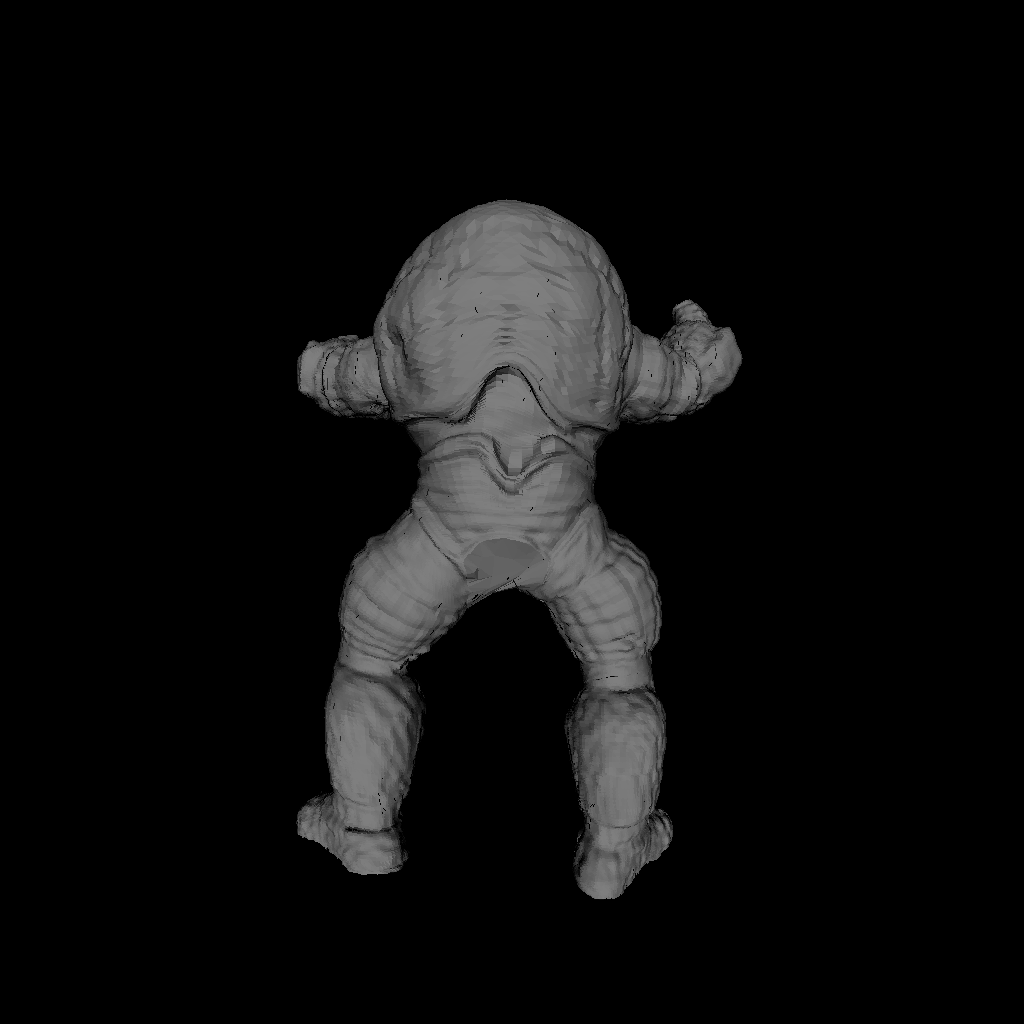
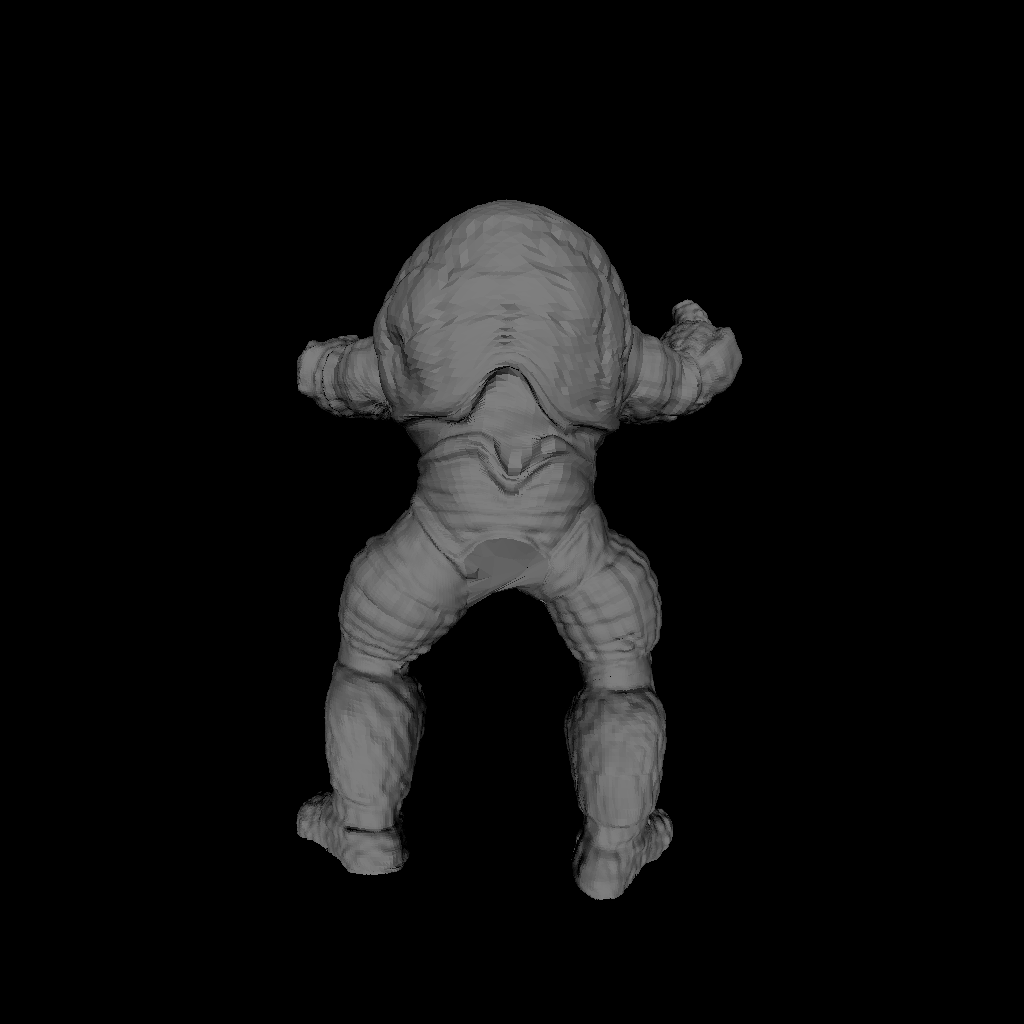
perf: 经典扫描线同样改用平面方程求值；并按屏幕面积跳过退化三角形
一、经典扫描线（scanlineZBuffer）与共享内核对齐
活动边表补上「左边缘进入扫描线时的参考点 (xRef, yRef, zRef)」，渲染时：
  · 深度由平面方程 z = zRef + (yRef - y)*dzy + (x - xRef)*dzx 直接求值，不再逐像素/逐行累加；
  · 求值位置夹回该扫描行的真实跨度 [xLeft, xRight] 之内。
改动前实测越界样本 567266 个（robot）、最大越界幅度 36.58，而整个视锥才 [-1, 1]。

二、按屏幕面积跳过退化三角形（两条路径都加）
屏幕面积 = |c| / 2，低于 0.01 平方像素直接跳过。
原来只用 |c| < 1e-5 判退化，只管住了面积恰好为 0 的情形；实测机器人模型里存在三个顶点
只差 0.001 像素的细条，|c| 约 0.002 照样通过阈值，但过这三点的平面已经是纯噪声：
它三个顶点的深度只相差 0.0025，解出来的 dzx 却是 -2.12/像素，比自身深度跨度大三个
数量级。这种三角形的片元深度没有意义，而它本来也覆盖不到一个像素。

为什么必须两个一起做：只把深度改成平面求值、先不跳过退化三角形的话，那些细条原本靠
「逐行累加漂移出来的乱值」输掉深度测试、碰巧不显示，改正之后它们的深度变得合理，反而
稳定胜出、把噪声颜色刷到画面上——机器人模型上出现了大片横向条纹（36000+ 像素异常）。
补上按面积跳过之后条纹消失。

实测（MSVC /O2，1024x1024，自带 6 模型）：

  越界样本最大幅度（经典模式）  dolphins 0.126 -> 1.3e-05
                                african_head 1.485 -> 1.1e-04
                                teapot 3.704 -> 2.5e-04
                                bunny 14.03 -> 6.4e-05
                                robot 36.58 -> 1.2e-03
                                armadillo 14.27 -> 7.5e-05

  经典扫描线 vs 特化扫描线（同一批三角形的两种扫描线实现，理应几乎一致）：
                                合计 164452 -> 47398  (-71%)

  与朴素 z-Buffer（不共享内核，重心插值，深度天然是顶点深度的凸组合）的差异：
                                合计 1129541 -> 1081511  (-4.3%)，30 个组合全部改善或持平

代价：经典扫描线 6 个模型合计 87.78 -> 88.09 ms（+0.4%，5 次取最小值），在噪声量级。

results/ 下 36 张图已同步重新生成；verify.sh 36/36 逐字节一致；
越界防护测试（相机 z=0.9、几何远超视口）仍然 ALL ALGORITHMS SURVIVED；MSBuild Release|x64 通过。

Changed region(s): [[0.625, 0.7812, 0.6562, 0.8125], [0.4688, 0.4375, 0.5, 0.4688]]

diff --git a/src/scanlineZBuffer.cpp b/src/scanlineZBuffer.cpp
@@ -96,7 +96,7 @@ void ScanlineZBuffer::rasterizeScene(Model& model, Scene& scene) {
 				//当该边对应的三角形是首次出现，则统一将该边视为左侧边，同时将dyRight赋值为-1以标识该活化边对只有1条边
 				slot = m_aetSize++;
 				m_triSlot[id] = slot;
-				m_aet[slot] = { classifyEdge.x, 0.0f, classifyEdge.dx, 0.0f, classifyEdge.dy, -1, classifyEdge.z, m_triangles[id].dzx, m_triangles[id].dzy, id};
+				m_aet[slot] = { classifyEdge.x, 0.0f, classifyEdge.dx, 0.0f, classifyEdge.dy, -1, classifyEdge.x, classifyEdge.z, i, m_triangles[id].dzx, m_triangles[id].dzy, id};
 			} else {
 				//当该边对应的三角形不是首次出现，则进行以下判断
 				//dyRight != -1 => 该边对有2条边，此时需判断是否有1条边扫描完毕，如果有，则将该边填充至扫描完毕的那条边
@@ -123,7 +123,9 @@ void ScanlineZBuffer::rasterizeScene(Model& model, Scene& scene) {
 						activeEdge.xLeft = classifyEdge.x;
 						activeEdge.dxLeft = classifyEdge.dx;
 						activeEdge.dyLeft = classifyEdge.dy;
-						activeEdge.z = classifyEdge.z;
+						activeEdge.xRef = classifyEdge.x;
+						activeEdge.zRef = classifyEdge.z;
+						activeEdge.yRef = i;
 					} else {
 						//新边在右
 						activeEdge.xRight = classifyEdge.x;
@@ -138,7 +140,9 @@ void ScanlineZBuffer::rasterizeScene(Model& model, Scene& scene) {
 					activeEdge.xLeft = classifyEdge.x;
 					activeEdge.dxLeft = classifyEdge.dx;
 					activeEdge.dyLeft = classifyEdge.dy;
-					activeEdge.z = classifyEdge.z;
+					activeEdge.xRef = classifyEdge.x;
+					activeEdge.zRef = classifyEdge.z;
+					activeEdge.yRef = i;
 				}
 			}
 		}
@@ -148,20 +152,25 @@ void ScanlineZBuffer::rasterizeScene(Model& model, Scene& scene) {
 			int id = edge.id;
 			const glm::vec3& color = m_triangles[id].color;
 			//当识别到该边对只有1条边，表示该边对应的三角形只跨越1条扫描线，此时直接从左向右扫描三角形
-			int xLeft = static_cast<int>(edge.xLeft), xRight = static_cast<int>(edge.dyRight == -1 ? (edge.xLeft + edge.dxLeft) : edge.xRight);
-			float z = edge.z, depth;
+			const float spanLeft = edge.xLeft;
+			const float spanRight = (edge.dyRight == -1) ? (edge.xLeft + edge.dxLeft) : edge.xRight;
+			int xLeft = static_cast<int>(spanLeft), xRight = static_cast<int>(spanRight);
 			//把扫描线裁剪到渲染窗口内，避免越界写入 m_zBuffer / m_image
 			if (xLeft < 0) {
-				z += edge.dzx * (0 - xLeft);
 				xLeft = 0;
 			}
 			if (xRight >= m_width) {
 				xRight = m_width - 1;
 			}
+			//本行的深度由平面方程直接求值（不再逐像素累加）；求值位置还要夹回该扫描行的
+			//真实跨度之内：像素范围是向零截断得到的，最左那个像素的整数坐标可能落在跨度
+			//之外最多 1 像素，而窄长三角形的 dzx 可以很大，外推出去深度会被甩出视锥
+			//（实测最大越界幅度到过 36.6，而整个视锥才 [-1, 1]）
+			const float rowZ = edge.zRef + (edge.yRef - i) * edge.dzy;
 			for (int j = xLeft; j <= xRight; j++) {
+				const float xc = (j < spanLeft) ? spanLeft : ((static_cast<float>(j) > spanRight) ? spanRight : static_cast<float>(j));
 				//深度取 -z（越远越大），与光栅化内核保持一致
-				depth = -z;
-				z += edge.dzx;
+				const float depth = -(rowZ + (xc - edge.xRef) * edge.dzx);
 				int index = m_width * i + j;
 				if (m_zBuffer[index] < depth) {
 					continue;
@@ -181,7 +190,6 @@ void ScanlineZBuffer::rasterizeScene(Model& model, Scene& scene) {
 			}
 			edge.xLeft += edge.dxLeft;
 			edge.xRight += edge.dxRight;
-			edge.z += edge.dzx * edge.dxLeft + edge.dzy;
 		}
 		//稳定压缩：保持边对相对顺序不变，使同深度像素的覆盖顺序与原实现一致
 		int alive = 0;
@@ -259,6 +267,10 @@ void ScanlineZBuffer::generateTables(Model& model, Scene& scene) {
 			dzx = (face[maxXIndex].z - face[minXIndex].z) / (maxX - minX);
 			dzy = (face[maxYIndex].z - face[minYIndex].z) / (maxY - minY);
 		}
+		//屏幕面积过小的退化三角形直接跳过，理由见 triangleRasterizer.hpp 的说明
+		if (glm::abs(c) < 2.0f * 0.01f) {
+			continue;
+		}
 		m_triangles[i] = { dzx, dzy, diffuseColor * diffuseIntensity };
 		//当三角形三个顶点y值相同时，经典扫描线算法会不渲染这个三角形，此时需要特殊处理
 		//将该三角形跨越的x值作为dx以在渲染时特殊处理
@@ -290,22 +302,23 @@ void ScanlineZBuffer::generateTables(Model& model, Scene& scene) {
 			if (faceDiff[j] < 0) {
 				std::swap(curJ, nextJ);
 			}
-			float x = face[curJ].x, z = face[curJ].z + (static_cast<int>(x) - x) * dzx;
+			float x = face[curJ].x;
 			int ymax = static_cast<int>(face[curJ].y), ymin = static_cast<int>(face[nextJ].y);
 			if ((face[curJ].y - face[nextJ].y) * (face[curJ].y - face[preJ].y) < -EPSILON) {
 				ymax--;
 				x += dx;
-				z += dx * dzx + dzy;
 			}
-			//把边裁剪到渲染窗口内：起始扫描线在窗口上方时，把 x、z 的插值推进过去
+			//把边裁剪到渲染窗口内：起始扫描线在窗口上方时，把 x 的插值推进过去
 			if (ymax >= m_height) {
 			    int skip = ymax - (m_height - 1);
 			    x += dx * skip;
-			    z += (dx * dzx + dzy) * skip;
 			    ymax = m_height - 1;
 			}
 			if (ymax >= 0) {
-			    m_classifyEdgeTables[ymax].push_back({ x, dx, ymax - ymin + 1, z,i });
+			    //记录该边进入扫描线时的参考点 (x, ymax)，以及深度平面在该点的取值。
+			    //渲染时用平面方程直接求值，不再沿扫描线逐行累加
+			    const float zRef = face[curJ].z + (face[curJ].y - ymax) * dzy + (x - face[curJ].x) * dzx;
+			    m_classifyEdgeTables[ymax].push_back({ x, dx, ymax - ymin + 1, zRef, i });
 			}
 		}
 	}

diff --git a/src/triangleRasterizer.hpp b/src/triangleRasterizer.hpp
@@ -33,6 +33,8 @@ inline void rasterizeTriangleScanline(glm::vec3* face, glm::vec3 color,
 {
     //与原各算法中的 EPSILON 宏取值一致
     constexpr double kEpsilon = 1e-5;
+    //低于这个屏幕面积（单位：平方像素）的三角形视为已退化
+    constexpr float kMinScreenArea = 0.01f;
 
     //深度一律取 -z，而不是 |z|。
     //本工程的投影（m_near/m_far 都取负值、配合行向量约定）把近平面映到
@@ -62,6 +64,12 @@ inline void rasterizeTriangleScanline(glm::vec3* face, glm::vec3 color,
     float b = (face[1].z - face[0].z) * (face[2].x - face[0].x) - (face[1].x - face[0].x) * (face[2].z - face[0].z);
     float c = (face[1].x - face[0].x) * faceDiff[2] + faceDiff[0] * (face[2].x - face[0].x);
     float dzx = -a / c, dzy = b / c;
+    //屏幕空间面积 = |c| / 2。三角形退化成极窄长条、甚至一条线时，过这三点的平面是病态的
+    //（|dzx| 可以大到几十，而三角形自身的深度跨度只有千分之几），它给出的片元深度没有意义；
+    //这种三角形本来也覆盖不到一个像素，直接跳过。
+    if (glm::abs(c) < 2.0f * kMinScreenArea) {
+        return;
+    }
     if (glm::abs(c) < kEpsilon) {
         //与经典扫描线算法建表的思路相同，当三角形是一条线时执行以下操作
         int minXIndex = 0, maxXIndex = 0;

diff --git a/src/scanlineZBuffer.hpp b/src/scanlineZBuffer.hpp
@@ -72,7 +72,16 @@ struct ActiveEdgeTable {
 	float xLeft, xRight;
 	float dxLeft, dxRight;
 	int dyLeft, dyRight;
-	float z, dzx, dzy;
+	/*! @brief 左侧边进入扫描线时的参考点：该边此刻的 x、所在行，以及深度平面在该点的取值
+	 *
+	 *	深度平面是 z(x,y) = zRef + (yRef - y) * dzy + (x - xRef) * dzx，渲染时直接代入求值。
+	 *	原来是把 z 沿扫描线逐行累加（z += dzx * dxLeft + dzy），这两个增量常常是
+	 *	一对量级相同、符号相反的大数，相减本身就带误差，再乘上成百上千行就积成了
+	 *	可见的深度错误（实测最大越界幅度到过 36.6，而整个视锥才 [-1, 1]）。
+	 */
+	float xRef, zRef;
+	int yRef;
+	float dzx, dzy;
 	int id;
 };
 
